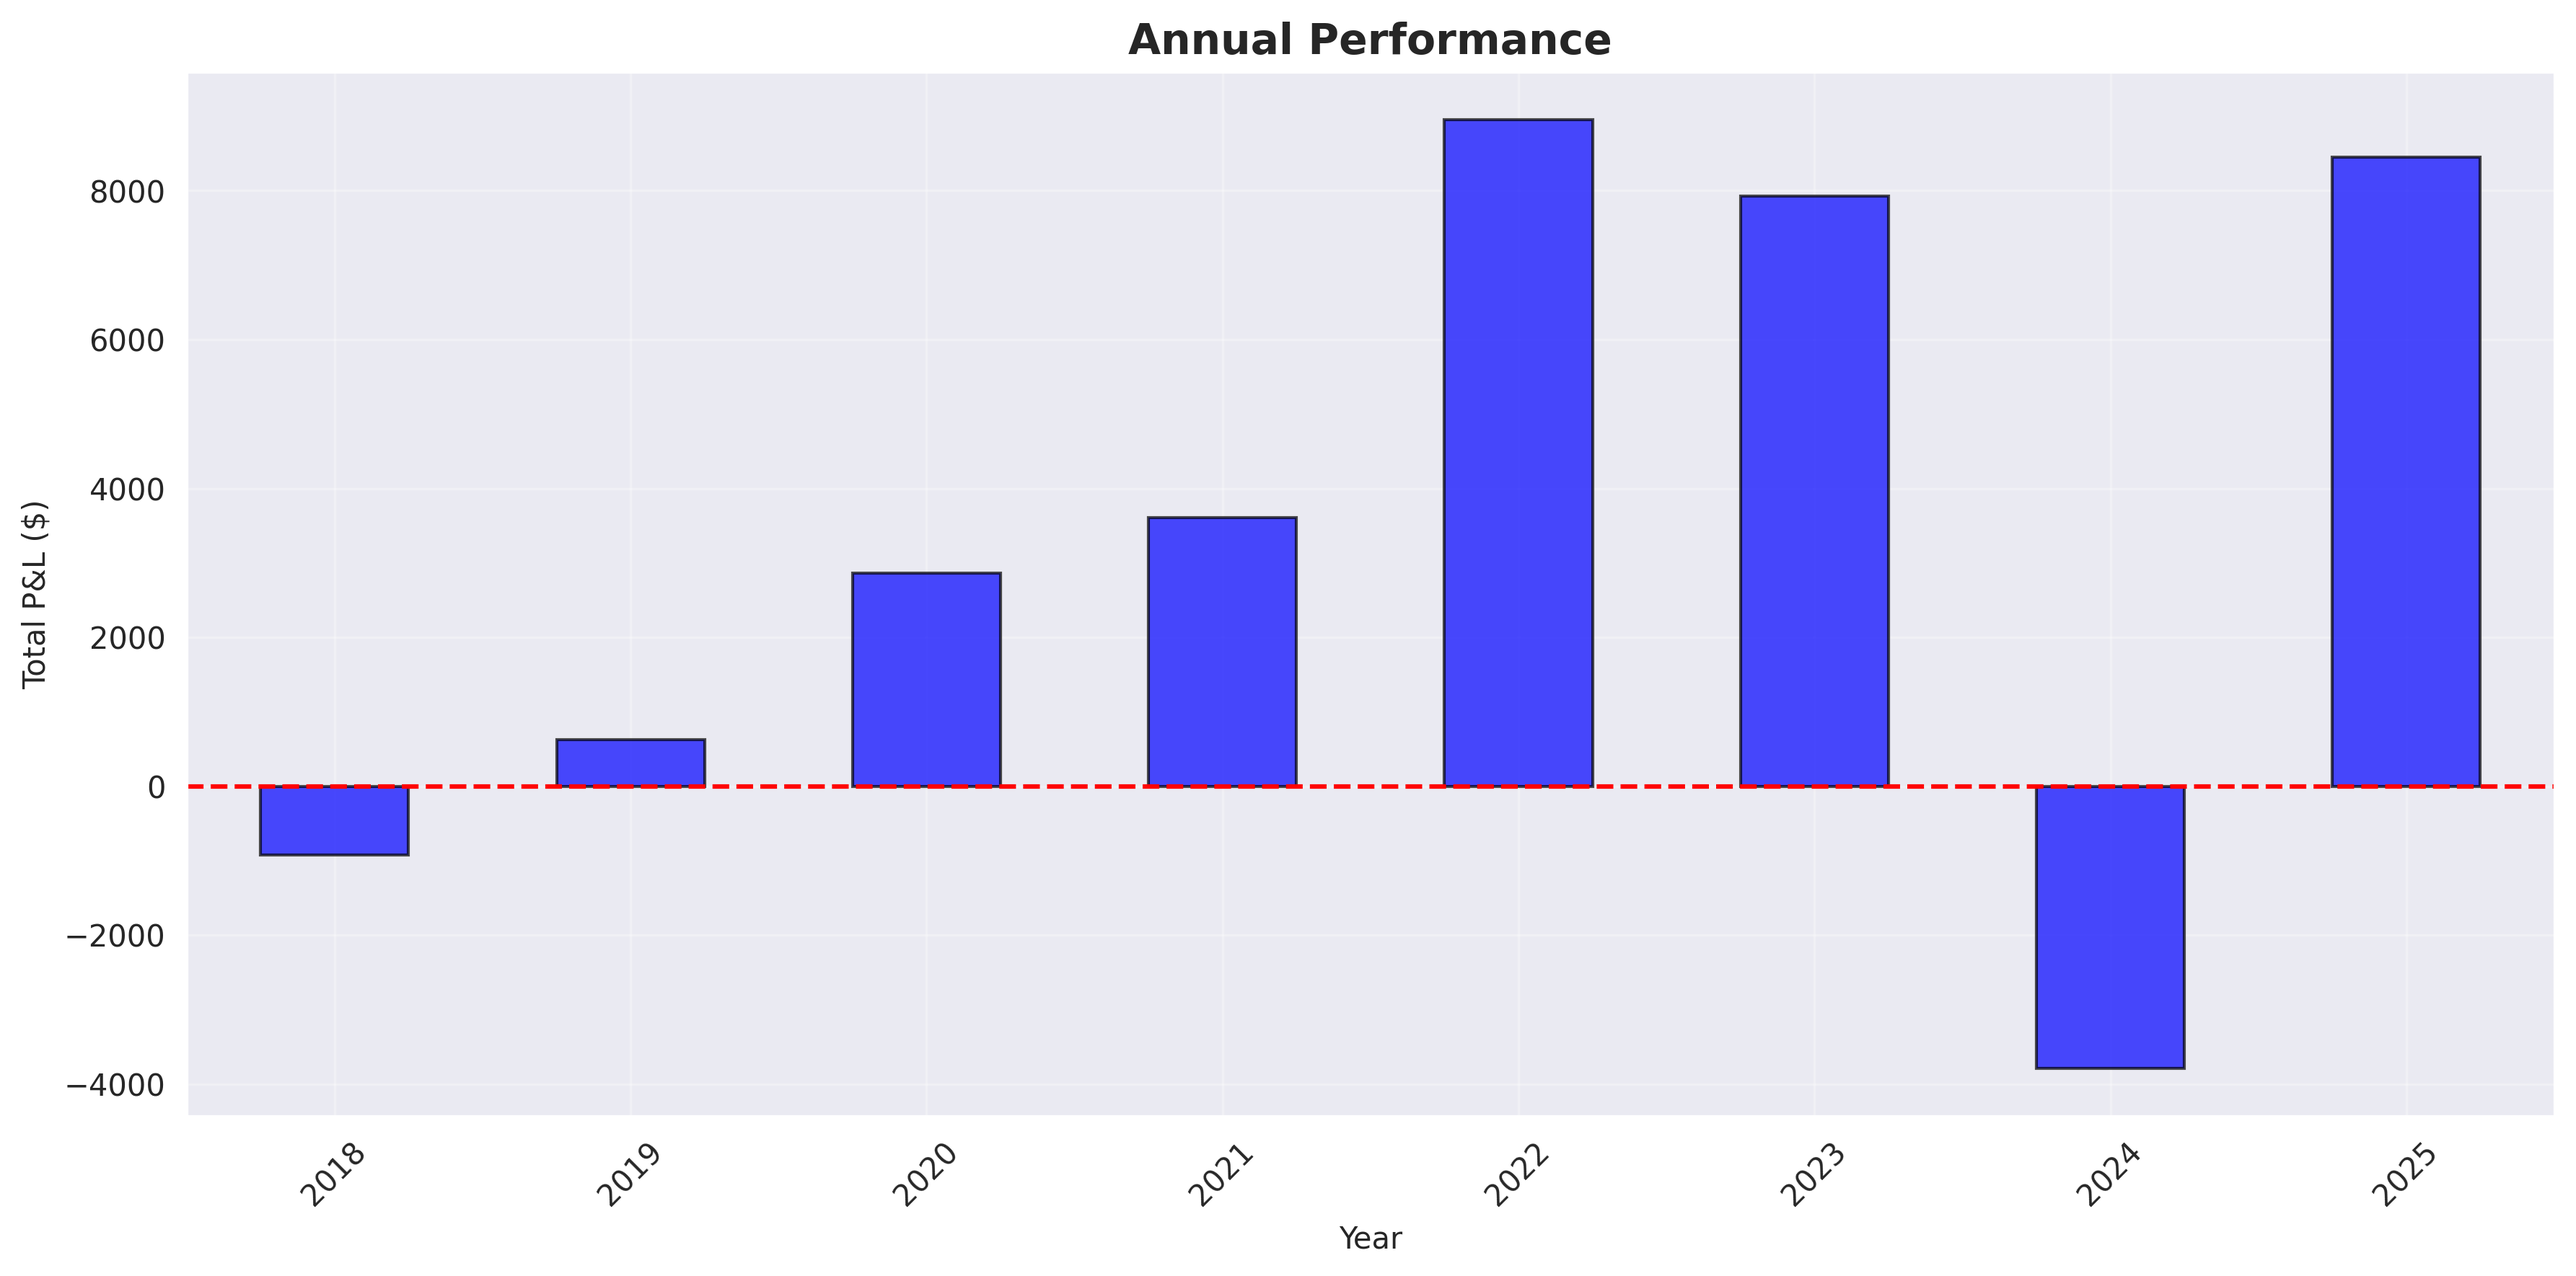
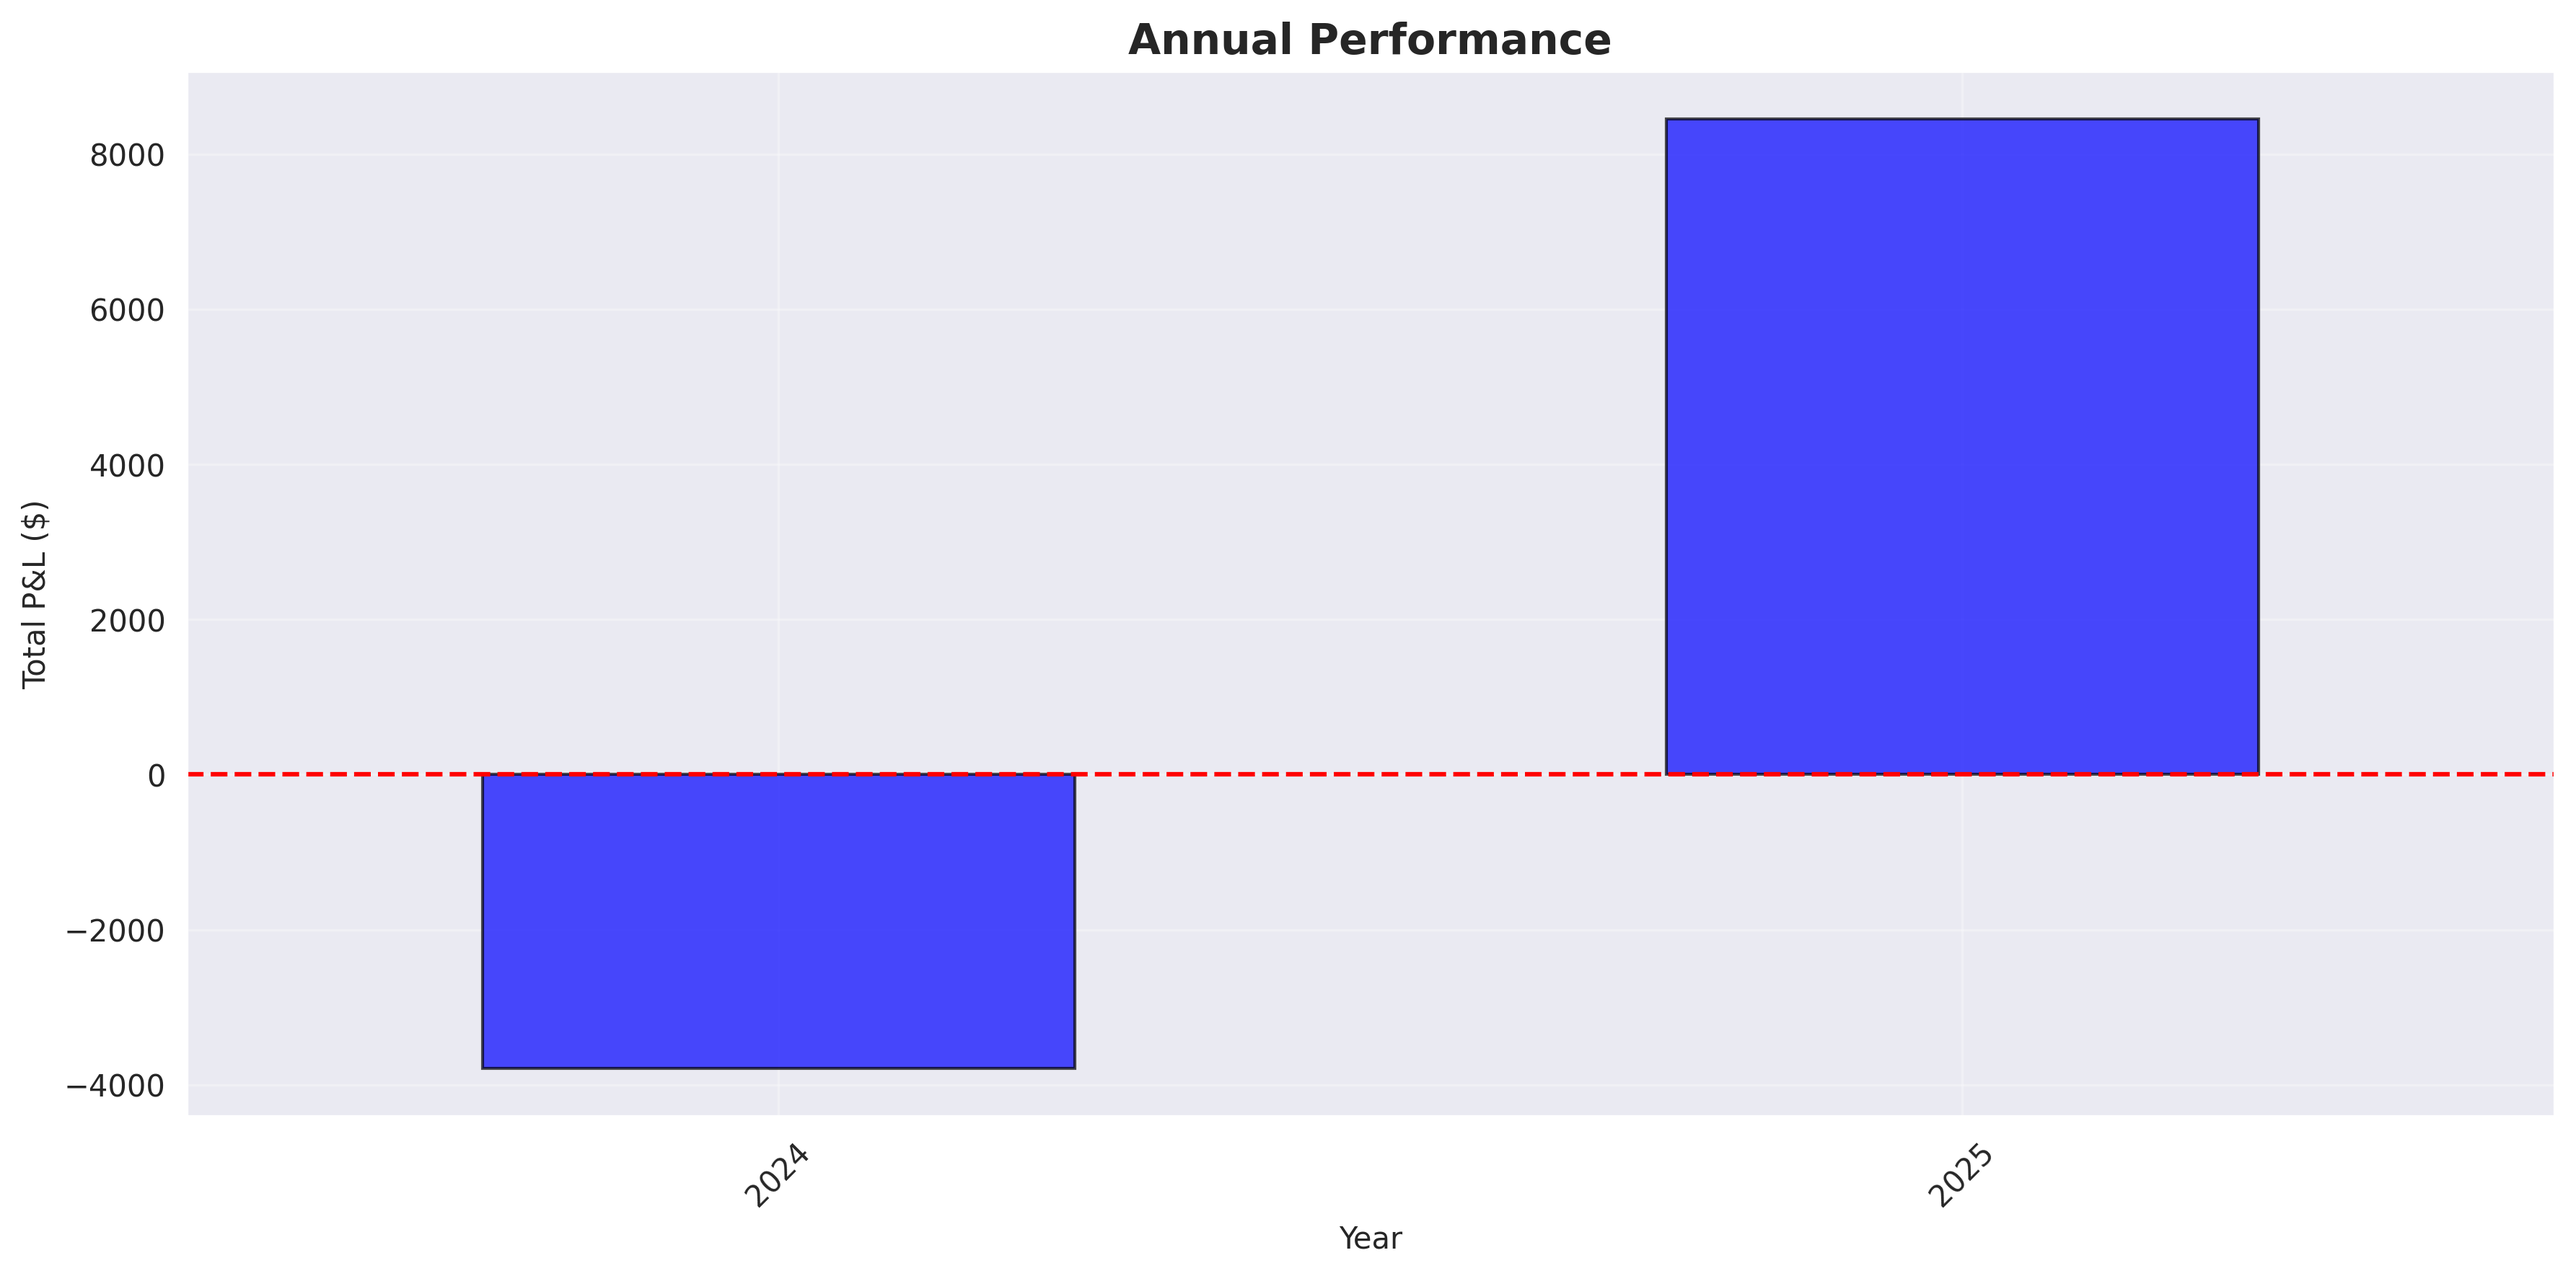
Address code review feedback with improvements
- Extract liquidity_sweep_tolerance to configurable parameter (was hardcoded 0.5)
- Add command-line argument support (--data-dir, --start-year, --end-year)
- Improve FVG detection docstring with detailed pattern explanation
- Enhance MSS detection docstring with clear criteria
- Simplify entry fill logic (removed duplicate direction checks)
- Clean up requirements.txt trailing newline

All code review suggestions addressed while maintaining functionality.

diff --git a/ict_london_open_backtest.py b/ict_london_open_backtest.py
@@ -15,6 +15,9 @@ Strategy Rules:
 
 Data Format: CSV with semicolon delimiter
 Columns: Date;Time;Open;High;Low;Close;Volume
+
+Usage:
+    python ict_london_open_backtest.py [--data-dir PATH] [--start-year YEAR] [--end-year YEAR]
 """
 
 import pandas as pd
@@ -23,6 +26,7 @@ from datetime import datetime, timedelta
 import matplotlib.pyplot as plt
 import seaborn as sns
 from pathlib import Path
+import argparse
 import warnings
 warnings.filterwarnings('ignore')
 
@@ -60,6 +64,7 @@ class ICTLondonOpenBacktest:
         
         # FVG parameters
         self.fvg_min_size = 2.0  # Minimum FVG size in points
+        self.liquidity_sweep_tolerance = 0.5  # Tolerance for liquidity sweep detection in points
         
         # Data storage
         self.data = {}
@@ -139,23 +144,35 @@ class ICTLondonOpenBacktest:
     
     def detect_fvg(self, df, direction='bullish'):
         """
-        Detect Fair Value Gaps (FVG) in price data
+        Detect Fair Value Gaps (FVG) in price data using 3-candle pattern
         
-        An FVG is a 3-candle pattern where:
-        - Bullish FVG: candle[0].high < candle[2].low (gap between candle 0 and 2)
+        A Fair Value Gap (FVG) represents a price inefficiency where:
+        - The middle candle (candle[1]) creates an impulse move
+        - Leaving a gap between candle[0] and candle[2] with no overlap
+        
+        Pattern Details:
+        - Bullish FVG: candle[0].high < candle[2].low 
+          Example: [1] moves up so fast that [0]'s high never touches [2]'s low
+          Gap zone = [candle[0].high, candle[2].low]
+          
         - Bearish FVG: candle[0].low > candle[2].high
+          Example: [1] moves down so fast that [0]'s low never touches [2]'s high
+          Gap zone = [candle[2].high, candle[0].low]
+        
+        Only gaps larger than fvg_min_size are considered valid.
         
         Parameters:
         -----------
         df : pd.DataFrame
-            OHLC data
+            OHLC data with datetime index
         direction : str
-            'bullish' or 'bearish'
+            'bullish' or 'bearish' - type of FVG to detect
             
         Returns:
         --------
         list of dict
-            List of FVGs with timestamp, top, bottom
+            List of FVGs with keys: timestamp, end_timestamp, top, bottom, 
+            size, direction, filled
         """
         fvgs = []
         
@@ -241,25 +258,38 @@ class ICTLondonOpenBacktest:
     
     def detect_market_structure_shift(self, df, start_idx, direction='bullish', lookback=20):
         """
-        Detect Market Structure Shift (MSS)
+        Detect Market Structure Shift (MSS) - confirmation of trend change
         
-        MSS occurs when price breaks the most recent swing point in the trend direction
+        A Market Structure Shift occurs when price decisively breaks the most recent
+        swing point in the new direction, confirming a change in trend.
+        
+        MSS Criteria:
+        - Bullish MSS: After inversion, price breaks above the prior swing high
+          (highest high in lookback period before the reversal point)
+        - Bearish MSS: After inversion, price breaks below the prior swing low
+          (lowest low in lookback period before the reversal point)
+        
+        This implementation uses a simplified approach:
+        - Looks back N bars to find the range before the reversal
+        - Confirms MSS when price breaks the opposite extreme of that range
+        - This validates that structure has genuinely shifted
         
         Parameters:
         -----------
         df : pd.DataFrame
-            OHLC data
-        direction : str
-            'bullish' or 'bearish'
+            OHLC data with datetime index
         start_idx : int
-            Index to start looking for MSS
+            Index position to start looking for MSS (typically after inversion)
+        direction : str
+            'bullish' or 'bearish' - direction of expected MSS
         lookback : int
-            Number of bars to look back for swing points
+            Number of bars to look back for swing point identification (default: 20)
             
         Returns:
         --------
         dict or None
-            MSS information if detected
+            MSS information with keys: timestamp, price, direction
+            Returns None if no MSS detected within 50 bars
         """
         if start_idx < lookback:
             return None
@@ -414,7 +444,7 @@ class ICTLondonOpenBacktest:
                 bar = data_after_fvg.iloc[i]
                 
                 # Check if price swept Tokyo high
-                if bar['High'] >= tokyo['tokyo_high'] - 0.5:
+                if bar['High'] >= tokyo['tokyo_high'] - self.liquidity_sweep_tolerance:
                     # Check if this move crossed through the FVG
                     # Price should have been below FVG and then moved above
                     lookback = max(0, i - 5)
@@ -440,7 +470,7 @@ class ICTLondonOpenBacktest:
                 bar = data_after_fvg.iloc[i]
                 
                 # Check if price swept Tokyo low
-                if bar['Low'] <= tokyo['tokyo_low'] + 0.5:
+                if bar['Low'] <= tokyo['tokyo_low'] + self.liquidity_sweep_tolerance:
                     # Check if this move crossed through the FVG
                     lookback = max(0, i - 5)
                     prior_bars = data_after_fvg.iloc[lookback:i]
@@ -581,16 +611,12 @@ class ICTLondonOpenBacktest:
             bar = trade_data.iloc[i]
             
             # Check if price pulls back into Inversion FVG
-            if direction == 'bearish':
-                if bar['High'] >= inversion_fvg_bottom and bar['Low'] <= inversion_fvg_top:
-                    entry_filled = True
-                    entry_time = trade_data.index[i]
-                    break
-            else:
-                if bar['High'] >= inversion_fvg_bottom and bar['Low'] <= inversion_fvg_top:
-                    entry_filled = True
-                    entry_time = trade_data.index[i]
-                    break
+            # For bearish: price should pullback UP into the FVG zone (from below)
+            # For bullish: price should pullback DOWN into the FVG zone (from above)
+            if bar['High'] >= inversion_fvg_bottom and bar['Low'] <= inversion_fvg_top:
+                entry_filled = True
+                entry_time = trade_data.index[i]
+                break
         
         # Missed trade logic: if target hit before entry, cancel
         if not entry_filled:
@@ -917,14 +943,36 @@ def main():
     """
     Main execution function
     """
-    # Define data directory
-    data_dir = '/home/runner/work/Backtest-Trading/Backtest-Trading'
+    # Parse command line arguments
+    parser = argparse.ArgumentParser(
+        description='ICT London Open Backtesting Strategy for NQ Futures'
+    )
+    parser.add_argument(
+        '--data-dir',
+        type=str,
+        default='/home/runner/work/Backtest-Trading/Backtest-Trading',
+        help='Directory containing CSV data files (default: current directory)'
+    )
+    parser.add_argument(
+        '--start-year',
+        type=int,
+        default=2018,
+        help='Starting year for backtest (default: 2018)'
+    )
+    parser.add_argument(
+        '--end-year',
+        type=int,
+        default=2025,
+        help='Ending year for backtest (default: 2025)'
+    )
+    
+    args = parser.parse_args()
     
     # Initialize backtesting system
     backtest = ICTLondonOpenBacktest(
-        data_dir=data_dir,
-        start_year=2018,
-        end_year=2025
+        data_dir=args.data_dir,
+        start_year=args.start_year,
+        end_year=args.end_year
     )
     
     # Run backtest
